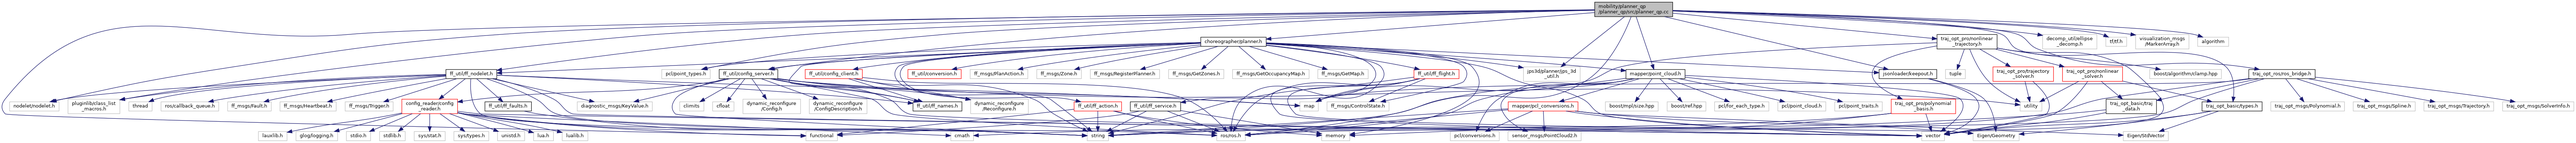
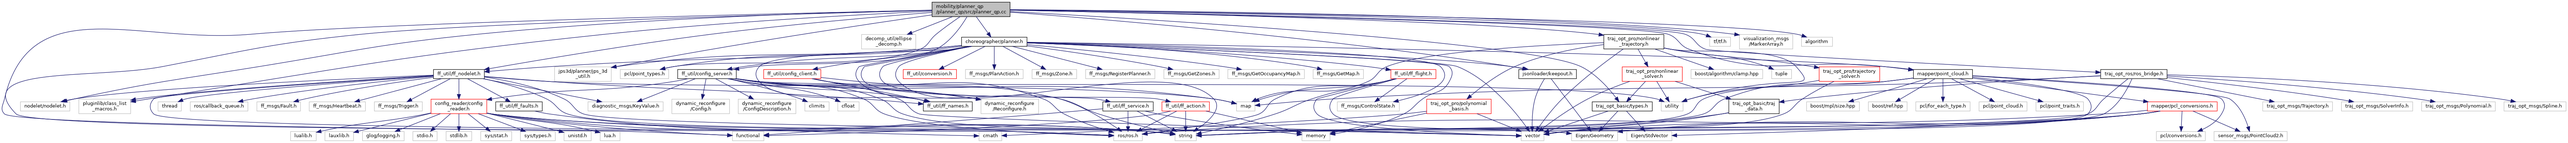
Automatic update for c490fdd416f10eece775e74d4c53eae2e12809ce.

diff --git a/html/planner__qp_8cc.html b/html/planner__qp_8cc.html
@@ -102,13 +102,13 @@ $(document).ready(function(){initNavTree('planner__qp_8cc.html',''); initResizab
 <code>#include &lt;<a class="el" href="ff__nodelet_8h_source.html">ff_util/ff_nodelet.h</a>&gt;</code><br />
 <code>#include &lt;nodelet/nodelet.h&gt;</code><br />
 <code>#include &lt;pluginlib/class_list_macros.h&gt;</code><br />
+<code>#include &lt;decomp_util/ellipse_decomp.h&gt;</code><br />
+<code>#include &lt;jps3d/planner/jps_3d_util.h&gt;</code><br />
 <code>#include &lt;<a class="el" href="planner_8h_source.html">choreographer/planner.h</a>&gt;</code><br />
 <code>#include &lt;<a class="el" href="keepout_8h_source.html">jsonloader/keepout.h</a>&gt;</code><br />
 <code>#include &lt;<a class="el" href="types_8h_source.html">traj_opt_basic/types.h</a>&gt;</code><br />
 <code>#include &lt;<a class="el" href="nonlinear__trajectory_8h_source.html">traj_opt_pro/nonlinear_trajectory.h</a>&gt;</code><br />
 <code>#include &lt;<a class="el" href="ros__bridge_8h_source.html">traj_opt_ros/ros_bridge.h</a>&gt;</code><br />
-<code>#include &lt;decomp_util/ellipse_decomp.h&gt;</code><br />
-<code>#include &lt;jps3d/planner/jps_3d_util.h&gt;</code><br />
 <code>#include &lt;<a class="el" href="point__cloud_8h_source.html">mapper/point_cloud.h</a>&gt;</code><br />
 <code>#include &lt;pcl/point_types.h&gt;</code><br />
 <code>#include &lt;tf/tf.h&gt;</code><br />
@@ -120,86 +120,86 @@ Include dependency graph for planner_qp.cc:</div>
 <div class="dyncontent">
 <div class="center"><img src="planner__qp_8cc__incl.png" border="0" usemap="#amobility_2planner__qp_2planner__qp_2src_2planner__qp_8cc" alt=""/></div>
 <map name="mobility_2planner__qp_2planner__qp_2src_2planner__qp_8cc" id="amobility_2planner__qp_2planner__qp_2src_2planner__qp_8cc">
-<area shape="rect" title=" " alt="" coords="4389,5,4603,47"/>
-<area shape="rect" title=" " alt="" coords="3349,363,3427,389"/>
-<area shape="rect" href="config__server_8h.html" title=" " alt="" coords="1979,191,2141,218"/>
-<area shape="rect" title=" " alt="" coords="2218,363,2305,389"/>
-<area shape="rect" href="ff__nodelet_8h.html" title=" " alt="" coords="1227,191,1367,218"/>
-<area shape="rect" title=" " alt="" coords="27,281,163,307"/>
-<area shape="rect" title=" " alt="" coords="187,273,330,315"/>
-<area shape="rect" href="planner_8h.html" title=" " alt="" coords="3305,102,3485,129"/>
-<area shape="rect" title=" " alt="" coords="1821,191,1955,218"/>
-<area shape="rect" href="keepout_8h.html" title=" " alt="" coords="5171,191,5330,218"/>
-<area shape="rect" href="point__cloud_8h.html" title=" " alt="" coords="4475,191,4637,218"/>
-<area shape="rect" title=" " alt="" coords="4193,184,4349,225"/>
-<area shape="rect" href="types_8h.html" title=" " alt="" coords="6060,281,6225,307"/>
-<area shape="rect" href="nonlinear__trajectory_8h.html" title=" " alt="" coords="5331,95,5496,136"/>
-<area shape="rect" href="ros__bridge_8h.html" title=" " alt="" coords="6189,191,6371,218"/>
-<area shape="rect" title=" " alt="" coords="5621,95,5771,136"/>
-<area shape="rect" title=" " alt="" coords="5795,102,5853,129"/>
-<area shape="rect" title=" " alt="" coords="5877,95,6024,136"/>
-<area shape="rect" title=" " alt="" coords="6048,102,6133,129"/>
-<area shape="rect" href="ff__names_8h.html" title=" " alt="" coords="2513,281,2647,307"/>
-<area shape="rect" href="config__reader_8h.html" title=" " alt="" coords="1106,273,1259,315"/>
-<area shape="rect" title=" " alt="" coords="2992,363,3051,389"/>
-<area shape="rect" title=" " alt="" coords="5289,363,5351,389"/>
-<area shape="rect" title=" " alt="" coords="2671,273,2830,315"/>
-<area shape="rect" title=" " alt="" coords="2045,273,2203,315"/>
-<area shape="rect" title=" " alt="" coords="2227,273,2386,315"/>
-<area shape="rect" title=" " alt="" coords="1589,281,1795,307"/>
-<area shape="rect" title=" " alt="" coords="1871,281,1937,307"/>
-<area shape="rect" title=" " alt="" coords="1961,281,2020,307"/>
-<area shape="rect" title=" " alt="" coords="5559,281,5619,307"/>
-<area shape="rect" title=" " alt="" coords="3577,281,3628,307"/>
-<area shape="rect" title=" " alt="" coords="1469,363,1523,389"/>
-<area shape="rect" title=" " alt="" coords="1547,363,1618,389"/>
-<area shape="rect" title=" " alt="" coords="711,363,790,389"/>
-<area shape="rect" title=" " alt="" coords="815,363,929,389"/>
-<area shape="rect" title=" " alt="" coords="953,363,1020,389"/>
-<area shape="rect" title=" " alt="" coords="1045,363,1115,389"/>
-<area shape="rect" title=" " alt="" coords="1140,363,1225,389"/>
-<area shape="rect" title=" " alt="" coords="1249,363,1345,389"/>
-<area shape="rect" title=" " alt="" coords="1369,363,1444,389"/>
-<area shape="rect" title=" " alt="" coords="2617,363,2679,389"/>
-<area shape="rect" title=" " alt="" coords="443,281,602,307"/>
-<area shape="rect" title=" " alt="" coords="627,281,747,307"/>
-<area shape="rect" title=" " alt="" coords="771,281,925,307"/>
-<area shape="rect" title=" " alt="" coords="950,281,1082,307"/>
-<area shape="rect" href="ff__faults_8h.html" title=" " alt="" coords="1335,281,1463,307"/>
-<area shape="rect" title=" " alt="" coords="355,281,419,307"/>
-<area shape="rect" href="ff__action_8h.html" title=" " alt="" coords="2956,281,3087,307"/>
-<area shape="rect" title=" " alt="" coords="3637,363,3715,389"/>
-<area shape="rect" href="ff__service_8h.html" title=" " alt="" coords="3111,281,3249,307"/>
-<area shape="rect" href="ff__flight_8h.html" title=" " alt="" coords="3891,191,4015,218"/>
-<area shape="rect" title=" " alt="" coords="3652,281,3823,307"/>
-<area shape="rect" href="config__client_8h.html" title=" " alt="" coords="2216,191,2373,218"/>
-<area shape="rect" href="conversion_8h.html" title=" " alt="" coords="2499,191,2645,218"/>
-<area shape="rect" title=" " alt="" coords="2670,191,2829,218"/>
-<area shape="rect" title=" " alt="" coords="2853,191,2976,218"/>
-<area shape="rect" title=" " alt="" coords="3001,191,3191,218"/>
-<area shape="rect" title=" " alt="" coords="3216,191,3368,218"/>
-<area shape="rect" title=" " alt="" coords="3392,191,3603,218"/>
-<area shape="rect" title=" " alt="" coords="3627,191,3765,218"/>
-<area shape="rect" title=" " alt="" coords="5430,363,5557,389"/>
-<area shape="rect" href="pcl__conversions_8h.html" title=" " alt="" coords="4151,281,4343,307"/>
-<area shape="rect" title=" " alt="" coords="3991,363,4126,389"/>
-<area shape="rect" title=" " alt="" coords="4150,363,4351,389"/>
-<area shape="rect" title=" " alt="" coords="4719,281,4868,307"/>
-<area shape="rect" title=" " alt="" coords="4893,281,5025,307"/>
-<area shape="rect" title=" " alt="" coords="5049,281,5180,307"/>
-<area shape="rect" title=" " alt="" coords="4418,281,4563,307"/>
-<area shape="rect" title=" " alt="" coords="4588,281,4695,307"/>
-<area shape="rect" title=" " alt="" coords="5843,363,5967,389"/>
-<area shape="rect" href="nonlinear__solver_8h.html" title=" " alt="" coords="5676,184,5841,225"/>
-<area shape="rect" href="traj__opt__pro_2include_2traj__opt__pro_2polynomial__basis_8h.html" title=" " alt="" coords="5205,273,5382,315"/>
-<area shape="rect" href="trajectory__solver_8h.html" title=" " alt="" coords="5485,184,5651,225"/>
-<area shape="rect" title=" " alt="" coords="5916,191,6113,218"/>
-<area shape="rect" title=" " alt="" coords="5354,191,5409,218"/>
-<area shape="rect" href="traj__data_8h.html" title=" " alt="" coords="5796,273,5935,315"/>
-<area shape="rect" title=" " alt="" coords="6249,281,6452,307"/>
-<area shape="rect" title=" " alt="" coords="6476,281,6647,307"/>
-<area shape="rect" title=" " alt="" coords="6671,281,6863,307"/>
-<area shape="rect" title=" " alt="" coords="6887,281,7083,307"/>
+<area shape="rect" title=" " alt="" coords="2565,5,2780,47"/>
+<area shape="rect" title=" " alt="" coords="3065,363,3144,389"/>
+<area shape="rect" href="config__server_8h.html" title=" " alt="" coords="1865,191,2026,218"/>
+<area shape="rect" title=" " alt="" coords="2016,363,2102,389"/>
+<area shape="rect" href="ff__nodelet_8h.html" title=" " alt="" coords="1193,191,1333,218"/>
+<area shape="rect" title=" " alt="" coords="56,281,192,307"/>
+<area shape="rect" title=" " alt="" coords="217,273,360,315"/>
+<area shape="rect" title=" " alt="" coords="2371,95,2520,136"/>
+<area shape="rect" title=" " alt="" coords="1526,184,1682,225"/>
+<area shape="rect" href="planner_8h.html" title=" " alt="" coords="2646,102,2826,129"/>
+<area shape="rect" title=" " alt="" coords="1707,191,1840,218"/>
+<area shape="rect" href="keepout_8h.html" title=" " alt="" coords="4180,191,4338,218"/>
+<area shape="rect" href="point__cloud_8h.html" title=" " alt="" coords="5266,191,5428,218"/>
+<area shape="rect" href="types_8h.html" title=" " alt="" coords="4382,281,4547,307"/>
+<area shape="rect" href="nonlinear__trajectory_8h.html" title=" " alt="" coords="4414,95,4579,136"/>
+<area shape="rect" href="ros__bridge_8h.html" title=" " alt="" coords="5781,191,5964,218"/>
+<area shape="rect" title=" " alt="" coords="4705,102,4762,129"/>
+<area shape="rect" title=" " alt="" coords="4787,95,4934,136"/>
+<area shape="rect" title=" " alt="" coords="4958,102,5043,129"/>
+<area shape="rect" href="ff__names_8h.html" title=" " alt="" coords="2541,281,2676,307"/>
+<area shape="rect" href="config__reader_8h.html" title=" " alt="" coords="1186,273,1340,315"/>
+<area shape="rect" title=" " alt="" coords="3234,363,3292,389"/>
+<area shape="rect" title=" " alt="" coords="4186,363,4249,389"/>
+<area shape="rect" title=" " alt="" coords="2700,273,2858,315"/>
+<area shape="rect" title=" " alt="" coords="1849,273,2008,315"/>
+<area shape="rect" title=" " alt="" coords="2032,273,2190,315"/>
+<area shape="rect" title=" " alt="" coords="1618,281,1825,307"/>
+<area shape="rect" title=" " alt="" coords="2215,281,2282,307"/>
+<area shape="rect" title=" " alt="" coords="2306,281,2364,307"/>
+<area shape="rect" title=" " alt="" coords="4572,281,4632,307"/>
+<area shape="rect" title=" " alt="" coords="3403,281,3454,307"/>
+<area shape="rect" title=" " alt="" coords="1652,363,1706,389"/>
+<area shape="rect" title=" " alt="" coords="800,363,870,389"/>
+<area shape="rect" title=" " alt="" coords="894,363,973,389"/>
+<area shape="rect" title=" " alt="" coords="998,363,1112,389"/>
+<area shape="rect" title=" " alt="" coords="1136,363,1203,389"/>
+<area shape="rect" title=" " alt="" coords="1228,363,1298,389"/>
+<area shape="rect" title=" " alt="" coords="1323,363,1408,389"/>
+<area shape="rect" title=" " alt="" coords="1432,363,1528,389"/>
+<area shape="rect" title=" " alt="" coords="1552,363,1627,389"/>
+<area shape="rect" title=" " alt="" coords="2694,363,2757,389"/>
+<area shape="rect" title=" " alt="" coords="524,281,682,307"/>
+<area shape="rect" title=" " alt="" coords="707,281,827,307"/>
+<area shape="rect" title=" " alt="" coords="851,281,1006,307"/>
+<area shape="rect" title=" " alt="" coords="1030,281,1162,307"/>
+<area shape="rect" href="ff__faults_8h.html" title=" " alt="" coords="1364,281,1492,307"/>
+<area shape="rect" title=" " alt="" coords="435,281,499,307"/>
+<area shape="rect" href="ff__action_8h.html" title=" " alt="" coords="3198,281,3328,307"/>
+<area shape="rect" title=" " alt="" coords="3583,363,3660,389"/>
+<area shape="rect" href="ff__service_8h.html" title=" " alt="" coords="3035,281,3174,307"/>
+<area shape="rect" href="ff__flight_8h.html" title=" " alt="" coords="3828,191,3952,218"/>
+<area shape="rect" title=" " alt="" coords="3680,281,3851,307"/>
+<area shape="rect" href="config__client_8h.html" title=" " alt="" coords="2102,191,2259,218"/>
+<area shape="rect" href="conversion_8h.html" title=" " alt="" coords="2486,191,2632,218"/>
+<area shape="rect" title=" " alt="" coords="2657,191,2816,218"/>
+<area shape="rect" title=" " alt="" coords="2840,191,2963,218"/>
+<area shape="rect" title=" " alt="" coords="2988,191,3178,218"/>
+<area shape="rect" title=" " alt="" coords="3203,191,3355,218"/>
+<area shape="rect" title=" " alt="" coords="3379,191,3590,218"/>
+<area shape="rect" title=" " alt="" coords="3614,191,3752,218"/>
+<area shape="rect" title=" " alt="" coords="4325,363,4452,389"/>
+<area shape="rect" href="pcl__conversions_8h.html" title=" " alt="" coords="5910,281,6102,307"/>
+<area shape="rect" title=" " alt="" coords="5934,363,6069,389"/>
+<area shape="rect" title=" " alt="" coords="6093,363,6294,389"/>
+<area shape="rect" title=" " alt="" coords="5272,281,5422,307"/>
+<area shape="rect" title=" " alt="" coords="5446,281,5578,307"/>
+<area shape="rect" title=" " alt="" coords="5603,281,5734,307"/>
+<area shape="rect" title=" " alt="" coords="4972,281,5117,307"/>
+<area shape="rect" title=" " alt="" coords="5142,281,5248,307"/>
+<area shape="rect" title=" " alt="" coords="4477,363,4601,389"/>
+<area shape="rect" href="nonlinear__solver_8h.html" title=" " alt="" coords="4464,184,4630,225"/>
+<area shape="rect" href="traj__opt__pro_2include_2traj__opt__pro_2polynomial__basis_8h.html" title=" " alt="" coords="3926,273,4104,315"/>
+<area shape="rect" href="trajectory__solver_8h.html" title=" " alt="" coords="5006,184,5173,225"/>
+<area shape="rect" title=" " alt="" coords="4654,191,4851,218"/>
+<area shape="rect" title=" " alt="" coords="4876,191,4930,218"/>
+<area shape="rect" href="traj__data_8h.html" title=" " alt="" coords="4758,273,4896,315"/>
+<area shape="rect" title=" " alt="" coords="6664,281,6867,307"/>
+<area shape="rect" title=" " alt="" coords="6891,281,7062,307"/>
+<area shape="rect" title=" " alt="" coords="6227,281,6419,307"/>
+<area shape="rect" title=" " alt="" coords="6444,281,6640,307"/>
 </map>
 </div>
 </div><table class="memberdecls">
